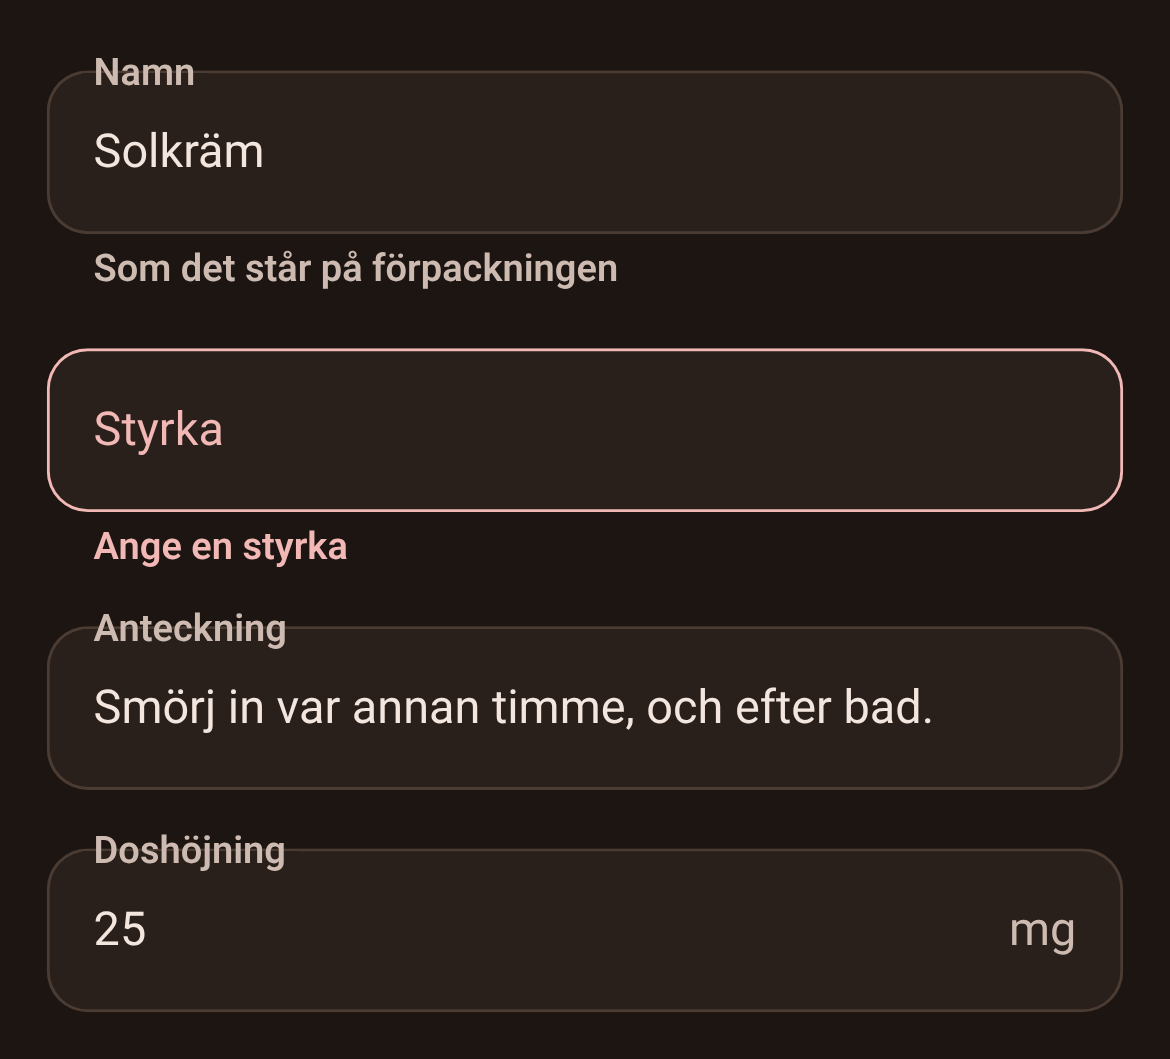
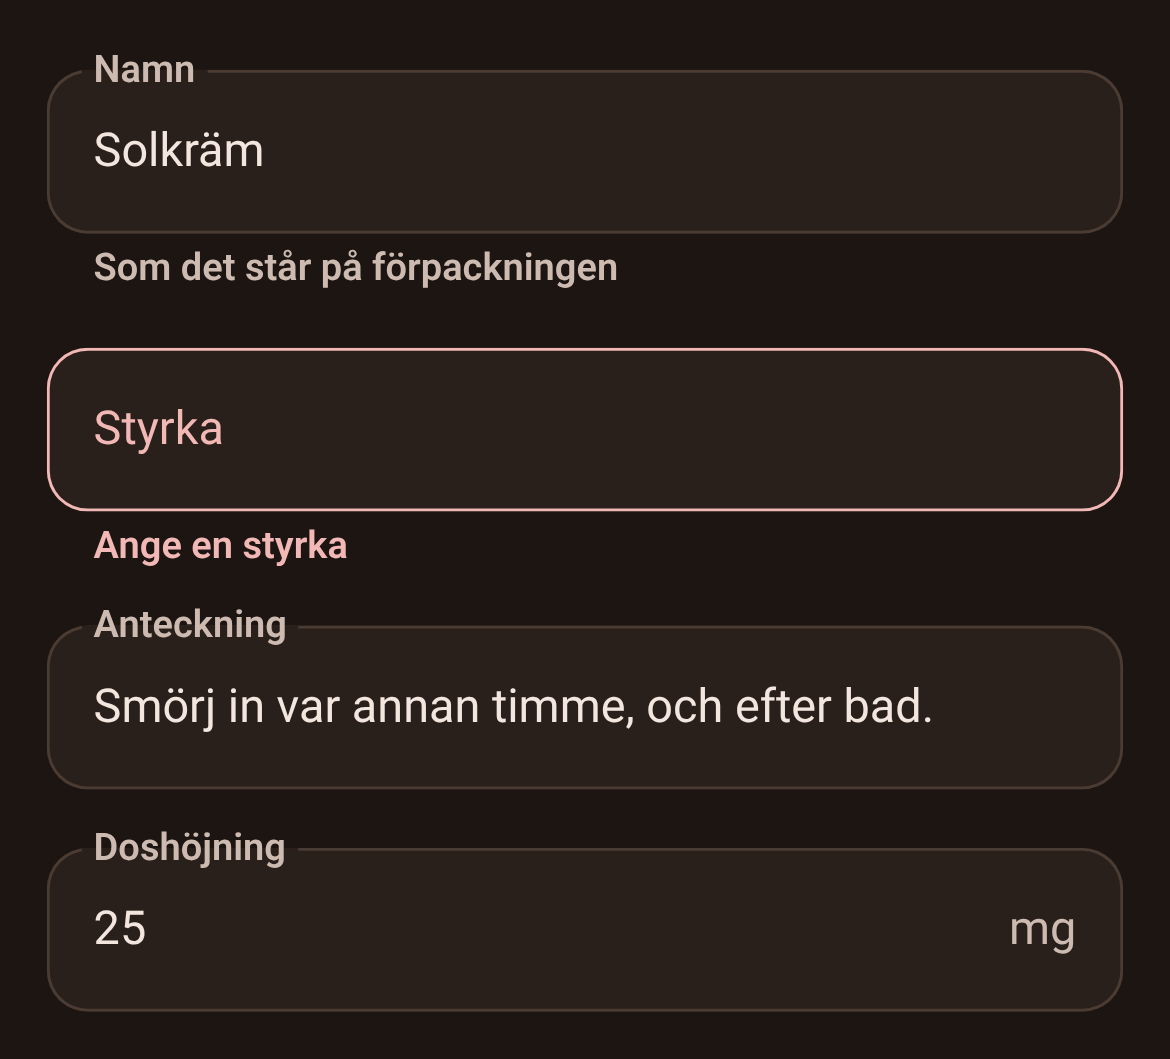
Textfältets etikett mitt på kantlinjen oavsett radhöjd (1.6.1) (#12)
Etiketten på kanten stod på fasta -8 px, vilket bara hamnar mitt på
kanten med 16 px radhöjd. Med Husjakts --kh-type-item-subtitle
(16px/22px) gick kantlinjen genom texten. Nu inset 0 och
translateY(-50%), som AppTextField.

Claude-Session: https://claude.ai/code/session_01KhEpwiZxh6FBcC6VB9Pmvf

diff --git a/src/kh.css b/src/kh.css
@@ -492,9 +492,13 @@ textarea.kh-field__input { resize: none; min-block-size: 56px; field-sizing: con
   transform-origin: left top;
   transition: transform 150ms ease, font 150ms ease, inset-block-start 150ms ease;
 }
-/* Etiketten på kanten: kanten går bakom den, fältets yta under. */
+/*
+ * Etiketten på kanten, mitt på kantlinjen som i AppTextField, vilken radhöjd appen än ger den:
+ * övre halvan genomskinlig, den nedre i fältets yta, så att kanten bryts bakom texten.
+ */
 .kh-field:has(.kh-field__input:focus, .kh-field__input:not(:placeholder-shown)) .kh-field__label {
-  inset-block-start: -8px;
+  inset-block-start: 0;
+  transform: translateY(-50%);
   font: var(--kh-type-item-subtitle);
   background: linear-gradient(transparent 50%, var(--kh-card) 50%);
 }

diff --git a/README.md b/README.md
@@ -4,7 +4,7 @@ android-ui:s utseende för Kodhästs webbappar (Husjakt först, sedan Veckans ma
 knappar och de andra delarna som i Android-apparna, som ren CSS. Bara färger och typsnitt skiljer
 mellan apparna; formerna och måtten är desamma överallt.
 
-**Version:** 1.6.0 (tagg `v1.6.0`) ·
+**Version:** 1.6.1 (tagg `v1.6.1`) ·
 tal ur android-ui 3.2.2 · planen: [Kodhast/android-ui#93](https://github.com/Kodhast/android-ui/issues/93).
 
 **Facit är android-ui:s komponenter och Roborazzi-bilder**, inte en mockup. Galleriet här speglar
@@ -151,6 +151,7 @@ taggas `main` med `v<version>`: Actions → Tagga → Run workflow på `main` (`
 
 | Version | Ändring |
 |---|---|
+| 1.6.1 | Textfältets etikett på kanten står mitt på kantlinjen vilken radhöjd appen än ger `--kh-type-item-subtitle` (`translateY(-50%)` i stället för fasta −8 px), så att kanten bryts bakom texten som i AppTextField. Med Husjakts 16/22 gick linjen förut genom texten. Omtagna: `AppTextField_lagen` |
 | 1.6.0 | Segmentvalet med mer djup (android-ui #97, 3.4.0): med `kh-depth` ligger `kh-segmented` i ett sänkt spår (`--kh-row-tint` och en svag inre skugga) och det valda segmentet lyfts som en egen pill med knapparnas skugga, skimmer och ljuskant; ovalda utan kontur i `--kh-on-surface-variant`. Samma höjd (40 px) och märkning. Utan `kh-depth` oförändrat. Omtagna: `Valda_djup` |
 | 1.5.0 | Menyn vid valfri knapp: `kh-menu` förankras vid knappen som öppnar den med `popovertarget`, under knappen och linjerad med dess högerkant, ovanför när det inte ryms. Förut förankrades bara flikradens huvudknapps meny. Flikradens meny som förut. |
 | 1.4.0 | Versionen i sidhuvudet (android-ui #95, `AppIdentity.version`): `.kh-header__version` efter `__name` – litet (`kh-type-caption`), dämpat, på namnets baslinje, tonar bort med namnet och lämnas bort helt när den inte ryms bredvid ett helt namn. `kh.js` placerar den. Utan elementet är allt som förut. |
